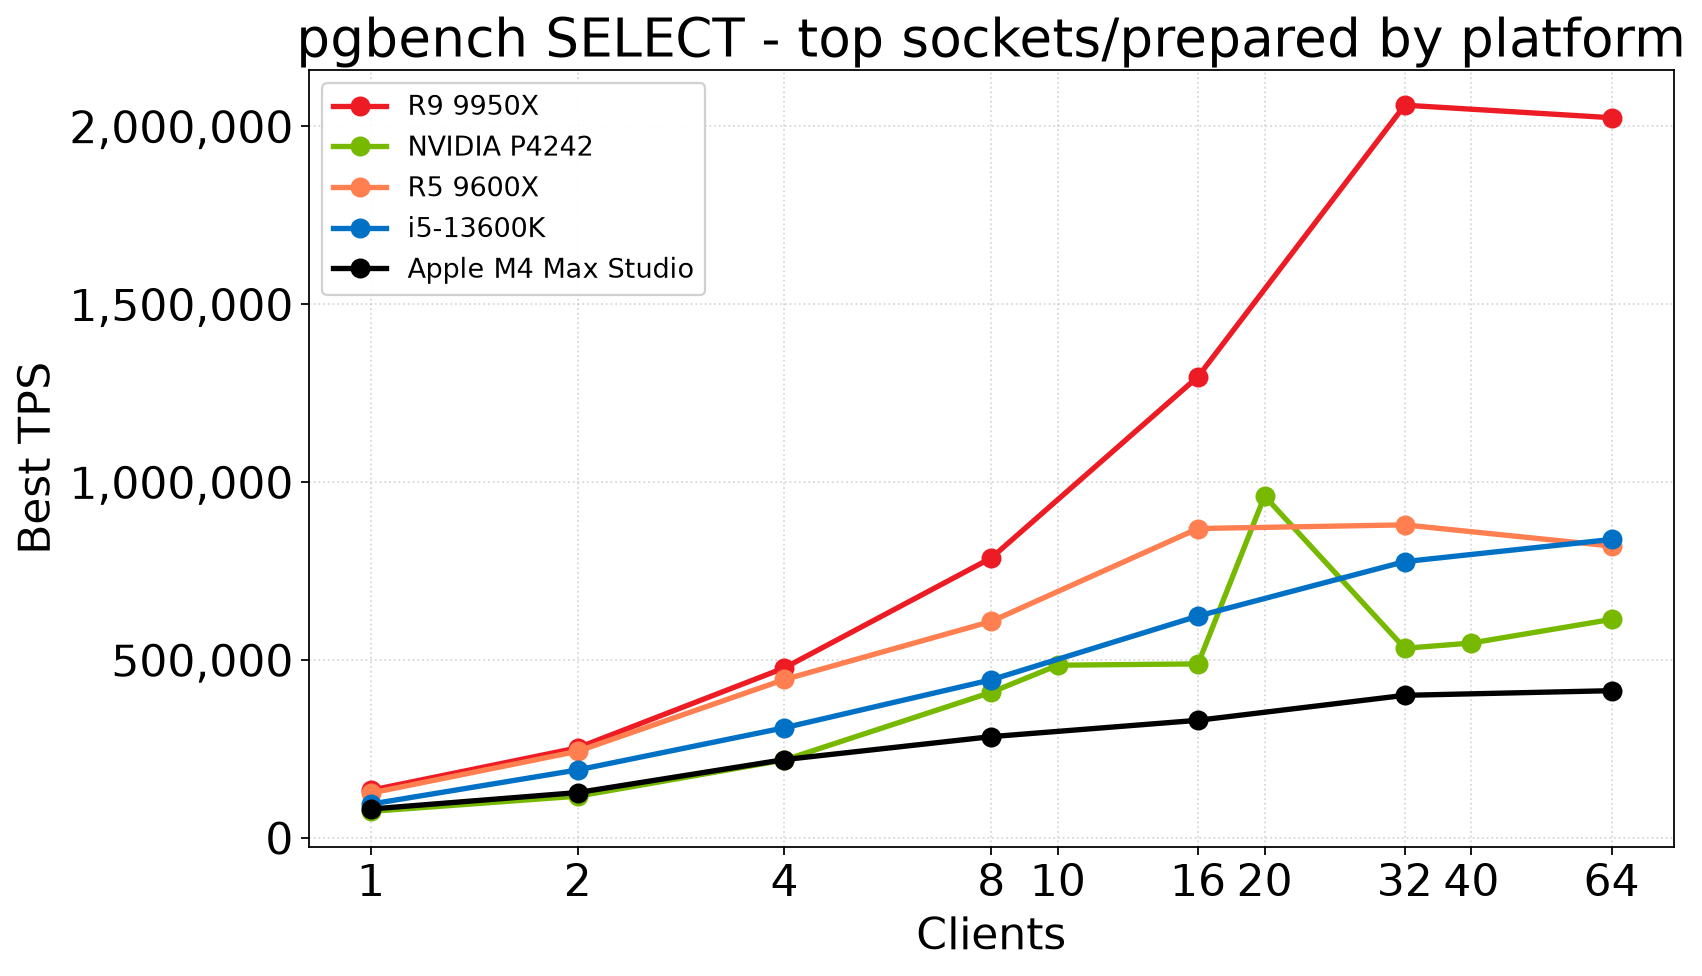
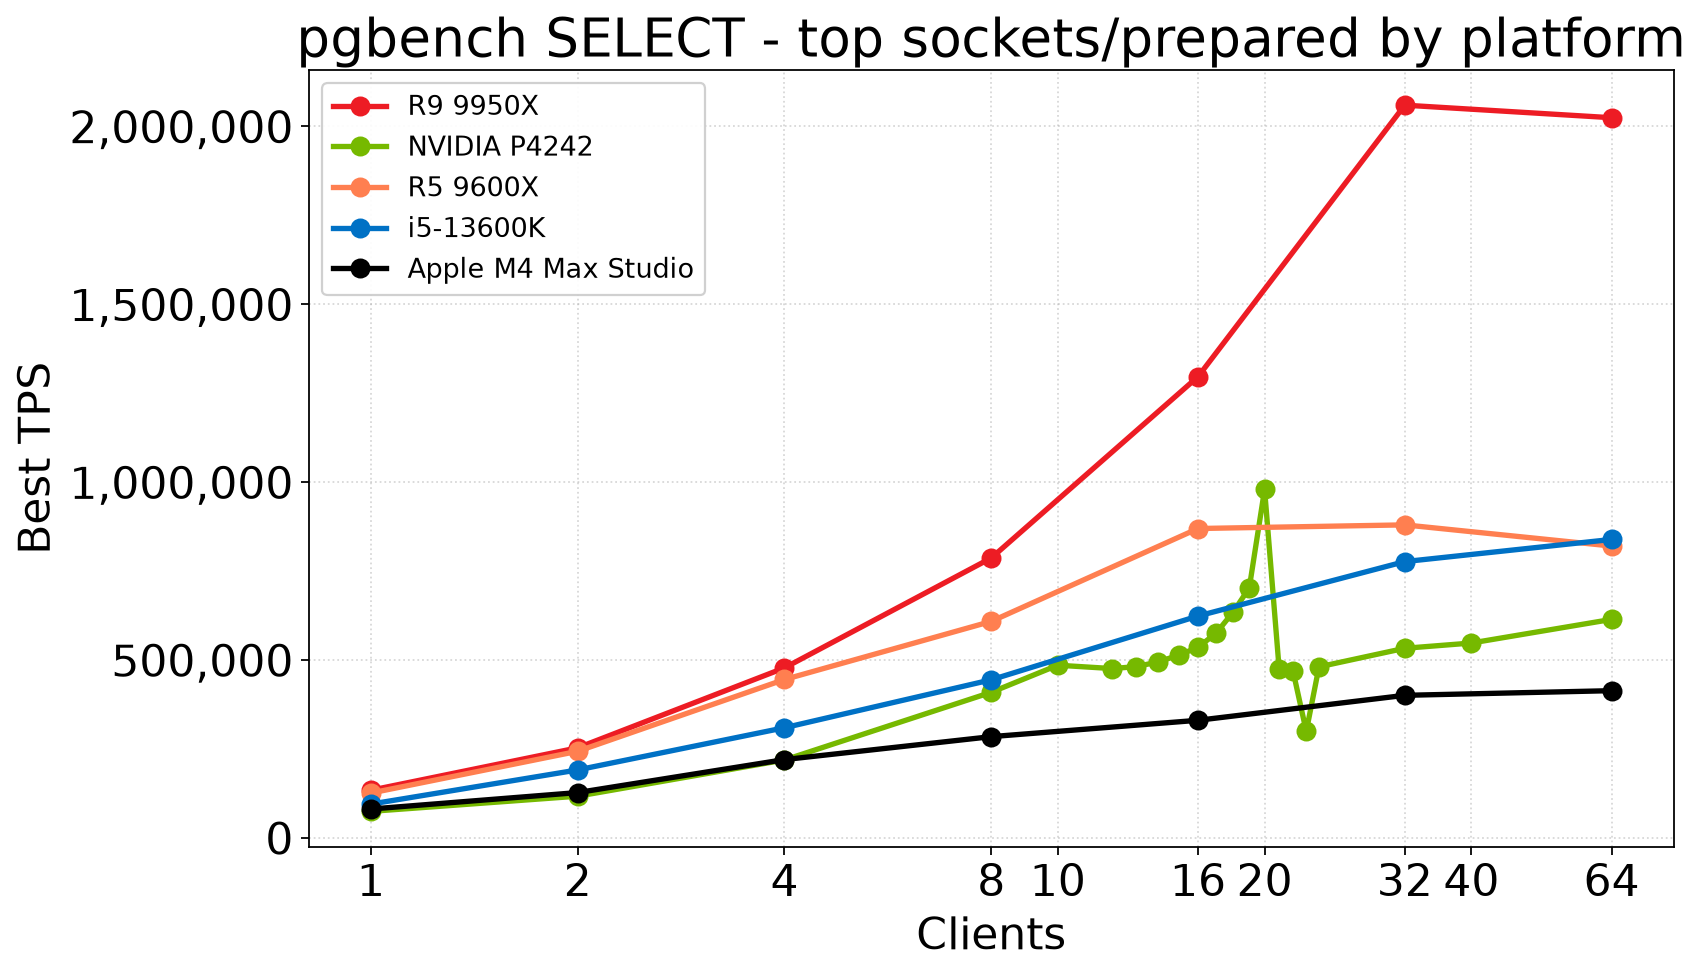
Show court’s dense SELECT cliff on the faces leaderboard.
Include set 31 clients 12–24 (best TPS) so Spark’s 20→23 swing is visible, keep the usual sparse x-axis ticks, and note the latency regime change in the page copy.

Changed region(s): [[0.7162, 0.4918, 0.8408, 0.7684], [0.6228, 0.6455, 0.7162, 0.707]]

diff --git a/reports/select-leaderboard.py b/reports/select-leaderboard.py
@@ -595,7 +595,11 @@ def plot_platform_faces(df: pd.DataFrame, output: Path, show: bool = False) -> N
             label=str(cpu),
         )
     ax.set_xscale("log", base=2)
-    ax.set_xticks(sorted(pts["clients"].unique()))
+    # Plot every measured client (court dense 12–24), but label only the usual
+    # sparse grid: powers of two plus nproc / 2× companions.
+    present = {int(c) for c in pts["clients"].unique()}
+    xticks = [c for c in (1, 2, 4, 8, 10, 16, 20, 32, 40, 64) if c in present]
+    ax.set_xticks(xticks)
     ax.xaxis.set_major_formatter(plt.FuncFormatter(lambda v, _: f"{int(v)}"))
     ax.yaxis.set_major_formatter(plt.FuncFormatter(lambda v, _: f"{int(v):,}"))
     ax.set_xlabel("Clients")
@@ -616,8 +620,9 @@ def faces_markdown(df: pd.DataFrame) -> str:
     n = df["cpu"].nunique() if not df.empty else 0
     return (
         f"{FACES_BEGIN}\n\n"
-        "**Sockets prepared** SELECT TPS at scale **100** (90s), one series per CPU "
-        "(best repeat at each client count). Colors match the OSM "
+        "**Sockets prepared** SELECT TPS at scale **100** (90s pin cells; court dense "
+        "fill **180s**), one series per CPU (best repeat at each client count). "
+        "Colors match the OSM "
         "[efficiency vs package power envelope]({{ '/results-summary/pg19/osm-power/' | relative_url }}) "
         "chart.\n\n"
         "![pgbench SELECT - top sockets/prepared by platform]"
@@ -628,17 +633,23 @@ def faces_markdown(df: pd.DataFrame) -> str:
         "gives a mild advantage to the current AMD set (e.g. **9950X** lands cleanly "
         "on **16** / **32**), while mixed-core / big.LITTLE boxes need `nproc` points "
         "or they look artificially soft. Court’s sockets-prepared ladder is the "
-        "textbook case: **~485k** at **10** / **16**, then **~960k** at **20** "
-        "(`nproc`), with **32** falling back to **~533k**. `pgsysinfo` already adds "
-        "`nproc`, `2×`, and `4×` to `SETCLIENTS` for that reason. Court fills (sets "
-        "**26** / **27**) put **10 / 16 / 20 / 40** on this 1–64 chart (highest TPS "
-        "when piling repeats). Twilight’s **13600K** shows a milder version of the "
-        "same edge; once other pending farm work finishes, its SELECT grid will "
-        "pick up the `pgsysinfo` thread points (**20** / **40** / **80**) so "
-        "pgbench can pin better to cores and threads — same fairness fix as "
-        "court. Apple is milder still. After the **14900K** left the farm, AMD "
-        "chips moved onto the top of this board. Spark is still a relatively "
-        "raw CPU platform here, so the power-of-two-only grid undersells it.\n\n"
+        "textbook case: **~485k** at **10** / **16**, then **~979k** at **20** "
+        "(`nproc`), with **32** falling back to **~533k**. Dense fill set **31** "
+        "(every client **12–24**, three 180s repeats, best TPS) makes the cliff "
+        "obvious: climb through **19** (**~702k**), spike at **20**, then collapse "
+        "to **~475k @21** / **~299k @23** before a partial bounce at **24**. Max "
+        "latency explodes at **21–22** (~100–160 ms) while the slow **23** cell "
+        "stays milder (~40 ms) — a different scheduling regime, not just “worse "
+        "of the same.” `pgsysinfo` already adds `nproc`, `2×`, and `4×` to "
+        "`SETCLIENTS` for that reason. Earlier fills (sets **26** / **27**) put "
+        "**10 / 16 / 20 / 40** on the chart; **31** densifies the ragged band. "
+        "Twilight’s **13600K** shows a milder version of the same edge; once "
+        "other pending farm work finishes, its SELECT grid will pick up the "
+        "`pgsysinfo` thread points (**20** / **40** / **80**) so pgbench can pin "
+        "better to cores and threads — same fairness fix as court. Apple is "
+        "milder still. After the **14900K** left the farm, AMD chips moved onto "
+        "the top of this board. Spark is still a relatively raw CPU platform "
+        "here, so the power-of-two-only grid undersells it.\n\n"
         f"{FACES_END}"
     )
 

diff --git a/docs/leaderboards/select-performance-power.md b/docs/leaderboards/select-performance-power.md
@@ -65,13 +65,13 @@ Speed vs energy for the best **sockets prepared** run on each machine at **32** 
 
 <!-- select-platform-faces:begin -->
 
-**Sockets prepared** SELECT TPS at scale **100** (90s), one series per CPU (best repeat at each client count). Colors match the OSM [efficiency vs package power envelope]({{ '/results-summary/pg19/osm-power/' | relative_url }}) chart.
+**Sockets prepared** SELECT TPS at scale **100** (90s pin cells; court dense fill **180s**), one series per CPU (best repeat at each client count). Colors match the OSM [efficiency vs package power envelope]({{ '/results-summary/pg19/osm-power/' | relative_url }}) chart.
 
 ![pgbench SELECT - top sockets/prepared by platform]({{ '/images/select-leaderboard-faces.png' | relative_url }})
 
 5 platforms: siren **R9 9950X** (PG19 rc1) and **R5 9600X** (set **118**), twilight **i5-13600K**, court **NVIDIA P4242**, abbey **Apple M4 Max Studio** (PG18).
 
-A **power-of-two-only** client grid is not vendor-neutral on this farm: it gives a mild advantage to the current AMD set (e.g. **9950X** lands cleanly on **16** / **32**), while mixed-core / big.LITTLE boxes need `nproc` points or they look artificially soft. Court’s sockets-prepared ladder is the textbook case: **~485k** at **10** / **16**, then **~960k** at **20** (`nproc`), with **32** falling back to **~533k**. `pgsysinfo` already adds `nproc`, `2×`, and `4×` to `SETCLIENTS` for that reason. Court fills (sets **26** / **27**) put **10 / 16 / 20 / 40** on this 1–64 chart (highest TPS when piling repeats). Twilight’s **13600K** shows a milder version of the same edge; once other pending farm work finishes, its SELECT grid will pick up the `pgsysinfo` thread points (**20** / **40** / **80**) so pgbench can pin better to cores and threads — same fairness fix as court. Apple is milder still. After the **14900K** left the farm, AMD chips moved onto the top of this board. Spark is still a relatively raw CPU platform here, so the power-of-two-only grid undersells it.
+A **power-of-two-only** client grid is not vendor-neutral on this farm: it gives a mild advantage to the current AMD set (e.g. **9950X** lands cleanly on **16** / **32**), while mixed-core / big.LITTLE boxes need `nproc` points or they look artificially soft. Court’s sockets-prepared ladder is the textbook case: **~485k** at **10** / **16**, then **~979k** at **20** (`nproc`), with **32** falling back to **~533k**. Dense fill set **31** (every client **12–24**, three 180s repeats, best TPS) makes the cliff obvious: climb through **19** (**~702k**), spike at **20**, then collapse to **~475k @21** / **~299k @23** before a partial bounce at **24**. Max latency explodes at **21–22** (~100–160 ms) while the slow **23** cell stays milder (~40 ms) — a different scheduling regime, not just “worse of the same.” `pgsysinfo` already adds `nproc`, `2×`, and `4×` to `SETCLIENTS` for that reason. Earlier fills (sets **26** / **27**) put **10 / 16 / 20 / 40** on the chart; **31** densifies the ragged band. Twilight’s **13600K** shows a milder version of the same edge; once other pending farm work finishes, its SELECT grid will pick up the `pgsysinfo` thread points (**20** / **40** / **80**) so pgbench can pin better to cores and threads — same fairness fix as court. Apple is milder still. After the **14900K** left the farm, AMD chips moved onto the top of this board. Spark is still a relatively raw CPU platform here, so the power-of-two-only grid undersells it.
 
 <!-- select-platform-faces:end -->
 
